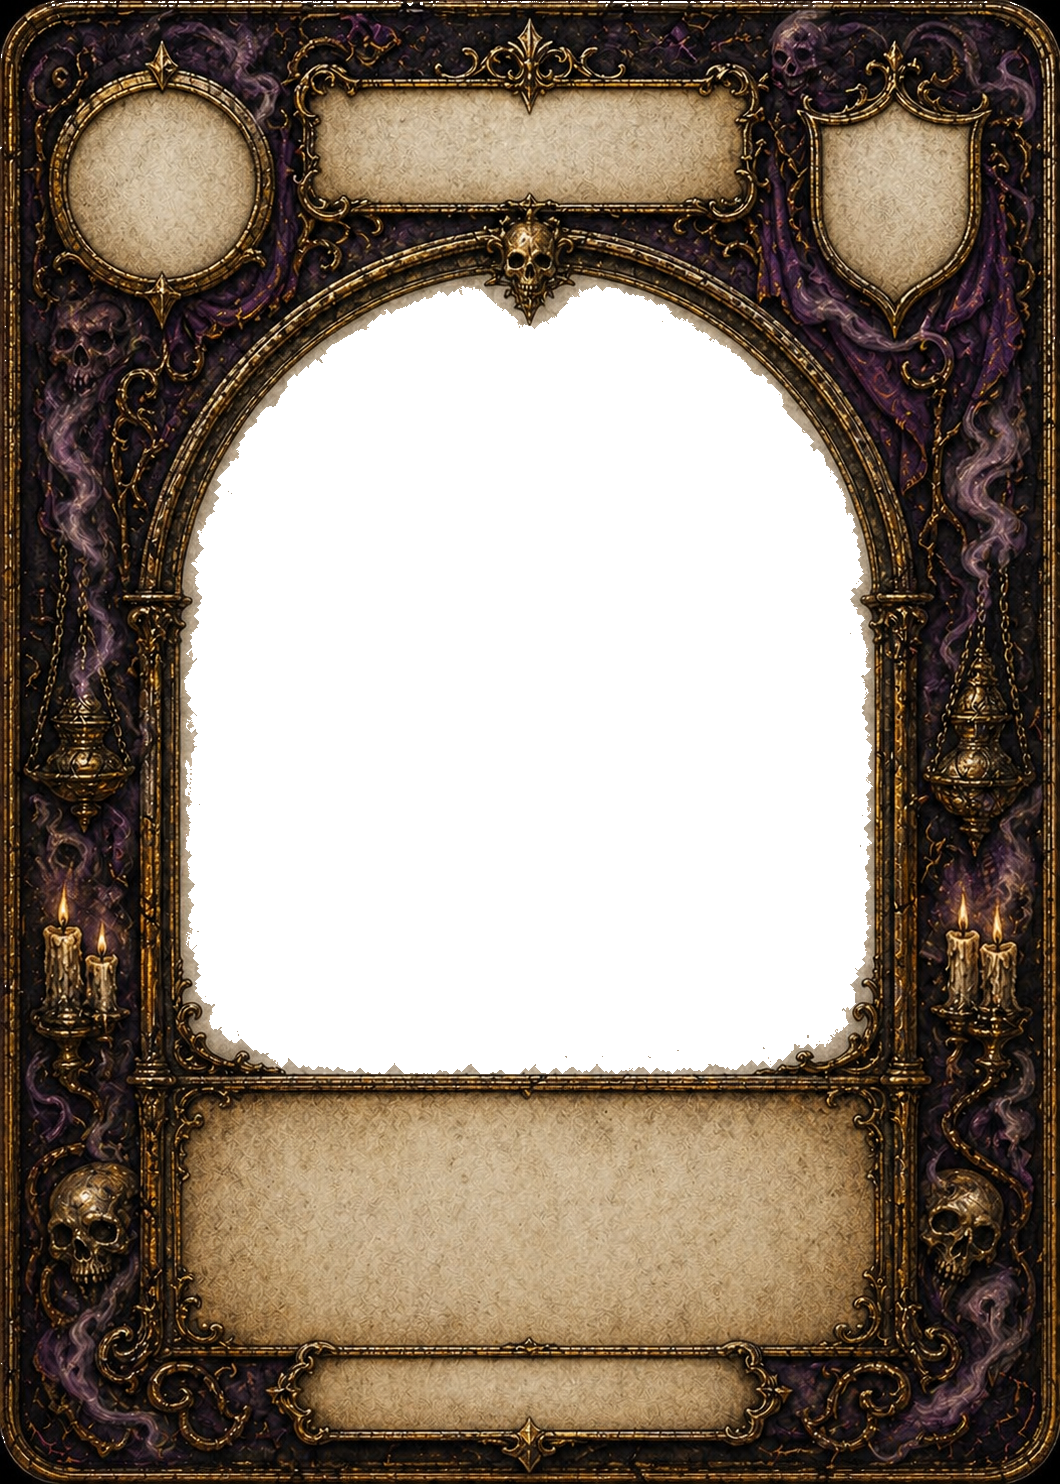
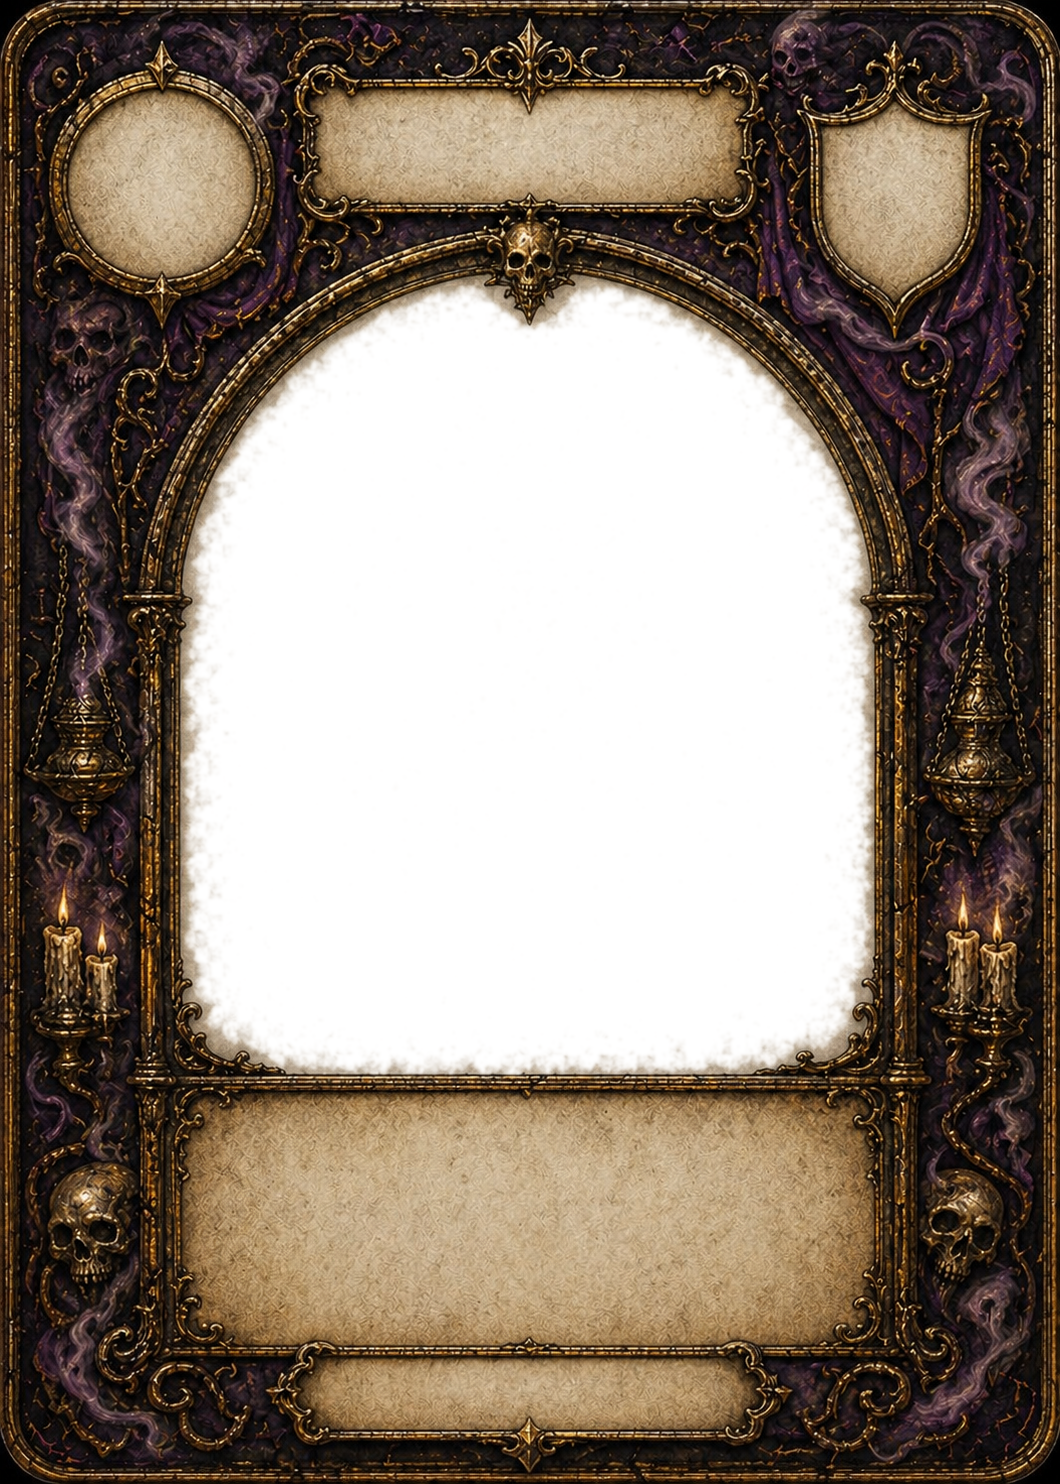
Color keying : alpha = distance euclidienne à la couleur clé du parchemin
+ blur 1.5 px pour adoucir les bords + ornements internes opaques par graduation

https://claude.ai/code/session_011baaC7zEExbd5eSjuzVu4k

diff --git a/tools/extract_arch_alpha.py b/tools/extract_arch_alpha.py
@@ -1,11 +1,13 @@
 #!/usr/bin/env python3
 """
-Convert ChatGPT-generated card templates into RGBA. Uses connected-component
-detection of the parchment region around the image center, then keeps
-true ornaments (skull, doves, candles, crosses) opaque inside that region.
-
-Output is binary alpha (0 or 255) so edges are crisp and the parchment
-inside the arch is fully transparent regardless of palette.
+Convert ChatGPT-generated card templates into RGBA via color keying:
+1. Detect the arch parchment region as a connected component.
+2. Sample the median (key) color of that region.
+3. For each pixel inside the region, alpha is proportional to the
+   euclidean color distance from the key — pixels matching the key
+   are transparent, ornaments (saturated/dark/colored) stay opaque,
+   and intermediate pixels get a graduated semi-transparency.
+4. A 1.5 px gaussian blur on the alpha mask softens the edge.
 
 Usage:
     python3 tools/extract_arch_alpha.py <input.png> <output.png>
@@ -13,11 +15,14 @@ Usage:
 import sys
 from PIL import Image
 import numpy as np
-from scipy.ndimage import label, binary_closing
+from scipy.ndimage import label, binary_closing, gaussian_filter
 
 SEARCH_Y = (0.13, 0.74)
 SEARCH_X = (0.13, 0.87)
 CLOSING_ITER = 6
+DIST_TRANSPARENT = 25
+DIST_OPAQUE = 80
+EDGE_BLUR_SIGMA = 1.5
 
 
 def process(in_path: str, out_path: str) -> None:
@@ -40,7 +45,6 @@ def process(in_path: str, out_path: str) -> None:
     y0, y1 = int(h * SEARCH_Y[0]), int(h * SEARCH_Y[1])
     x0, x1 = int(w * SEARCH_X[0]), int(w * SEARCH_X[1])
     box[y0:y1, x0:x1] = parchment[y0:y1, x0:x1]
-
     labeled, _ = label(box)
     cy, cx = h // 2, w // 2
     seed = labeled[cy, cx]
@@ -57,14 +61,21 @@ def process(in_path: str, out_path: str) -> None:
     arch_zone = labeled == seed if seed else np.zeros_like(labeled, dtype=bool)
     arch_zone = ~binary_closing(~arch_zone, iterations=CLOSING_ITER)
 
-    s_sat = np.clip((desat - 30) / 30.0, 0, 1)
-    s_dark = np.clip((130 - lum) / 60.0, 0, 1)
-    s_gold = np.clip((90 - B) / 40.0, 0, 1)
-    ornament_strength = np.maximum(np.maximum(s_sat, s_dark), s_gold)
-    is_inner_ornament = ornament_strength > 0.45
+    if arch_zone.any():
+        key_R = float(np.median(R[arch_zone]))
+        key_G = float(np.median(G[arch_zone]))
+        key_B = float(np.median(B[arch_zone]))
+    else:
+        key_R, key_G, key_B = 220, 200, 175
 
-    transparent_zone = arch_zone & ~is_inner_ornament
-    alpha = np.where(transparent_zone, 0, 255).astype(np.uint8)
+    dist = np.sqrt((R - key_R) ** 2 + (G - key_G) ** 2 + (B - key_B) ** 2)
+    alpha_from_dist = np.clip(
+        (dist - DIST_TRANSPARENT) / (DIST_OPAQUE - DIST_TRANSPARENT) * 255,
+        0, 255,
+    )
+    alpha = np.where(arch_zone, alpha_from_dist, 255).astype(np.float32)
+    alpha = gaussian_filter(alpha, sigma=EDGE_BLUR_SIGMA)
+    alpha = np.clip(alpha, 0, 255).astype(np.uint8)
     arr[:, :, 3] = alpha
     Image.fromarray(np.clip(arr, 0, 255).astype(np.uint8), mode="RGBA").save(
         out_path, optimize=True
